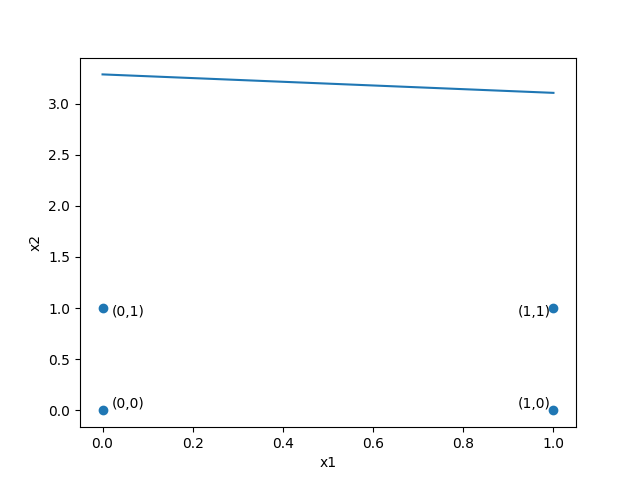
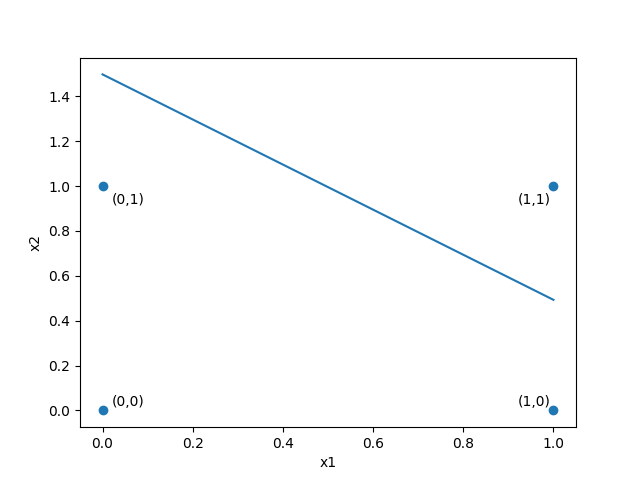
new

diff --git a/4semestr/iap/lab1/One.java b/4semestr/iap/lab1/One.java
@@ -5,115 +5,196 @@ class One {
         Create r=new Create();
         r.run();
     }
-}
+}  
 class Create{
     public void run(){
-        Scanner in = new Scanner(System.in);
-        double S;
+        try{
+            Scanner in = new Scanner(System.in);
+            double S,V;
 
-        System.out.print("endter a and b for eleps a->");
-        double ae=in.nextDouble();
-        System.out.print("b->");
-        double be=in.nextDouble();
+            System.out.print("endter a and b for eleps a->");
+            double ae=in.nextDouble();
+            System.out.print("b->");
+            double be=in.nextDouble();
+            System.out.print("hight for eleps->");
+            double he=in.nextDouble();
 
-        System.out.print("enter radius for circle(r)->");
-        double r=in.nextDouble();
+            System.out.print("enter radius for circle(r)->");
+            double r=in.nextDouble();
+            System.out.print("hight for circle->");
+            double hc=in.nextDouble();
 
-        System.out.print("enter a and b sides of the rectangle a->");
-        double a=in.nextDouble();
-        System.out.print("b->");
-        double b=in.nextDouble();
+            System.out.print("enter a and b sides of the rectangle a->");
+            double a=in.nextDouble();
+            System.out.print("b->");
+            double b=in.nextDouble();
+            System.out.print("hight for rectangle->");
+            double hr=in.nextDouble();
 
-        System.out.print("enter a sides of the square a->");
-        double as=in.nextDouble();
+            System.out.print("enter a sides of the square a->");
+            double as=in.nextDouble();
+            System.out.print("hight for square->");
+            double hs=in.nextDouble();
 
-        System.out.print("endter base of triangle(base)->");
-        double at=in.nextDouble();
-        System.out.print("enter height for triangle(h)->");
-        double h=in.nextDouble();
+            System.out.print("endter base of triangle(base)->");
+            double at=in.nextDouble();
+            System.out.print("enter height for triangle(h)->");
+            double h=in.nextDouble();
+            System.out.print("hight for triangle->");
+            double ht=in.nextDouble();
 
-        Eleps e= new Eleps();
-        Circle c= new Circle();
-        Rectangle rec= new Rectangle();
-        Square s= new Square();
-        Triangle t= new Triangle();
+            Shape e= new Eleps(ae,be);
+            Shape c= new Circle(r);
+            Shape rec= new Rectangle(a,b);
+            Shape s= new Square(as);
+            Shape t= new Triangle(at,h);
+
+            Cylinder ce = new Cylinder(e,he);
+            Cylinder cc = new Cylinder(c,hc);
+            Cylinder cr = new Cylinder(rec,hr);
+            Cylinder cs = new Cylinder(s,hs);
+            Cylinder ct = new Cylinder(t,ht);
 
 
-        e.create_eleps(ae, be);
-        c.create_circle(r);
-        rec.create_rectangle(a, b);
-        s.create_square(as);
-        t.create_triangle(at, h);
+            S=e.area();
+            System.out.printf("площадь эллипса= %s\n",S);
+            V=ce.volume();
+            System.out.printf("обьём эллипса= %s\n\n",V);
 
-        S=e.area();
-        System.out.printf("площадь эллипса= %s\n",S);
+            S=c.area();
+            System.out.printf("площадь круга= %s\n",S);
+            V=cc.volume();
+            System.out.printf("обьём круга= %s\n\n",V);
 
-        S=c.area();
-        System.out.printf("площадь круга= %s\n",S);
+            S=rec.area();
+            System.out.printf("площадь прямоугольника= %s\n",S);
+            V=cr.volume();
+            System.out.printf("обьём прямоугольника= %s\n\n",V);
 
-        S=rec.area();
-        System.out.printf("площадь прямоугольника= %s\n",S);
+            S=s.area();
+            System.out.printf("площадь квадрата= %s\n",S);
+            V=cs.volume();
+            System.out.printf("обьём квадрата= %s\n\n",V);
 
-        S=s.area();
-        System.out.printf("площадь квадрата= %s\n",S);
+            S=t.area();
+            System.out.printf("площадь треугольника= %s\n",S);
+            V=ct.volume();
+            System.out.printf("обьём треугольника= %s\n\n",V);
 
-        S=t.area();
-        System.out.printf("площадь треугольника= %s\n",S);
-
-        in.close();
+            in.close();
+        }catch(IllegalArgumentException exc)
+        {
+            System.out.println(exc.getMessage());
+        }
     }
 }
-class Shape{
+interface Shape{
     final double PI=3.14159265359;
+    double area();
+    void show();
 }
-class Eleps extends Shape{
-    double A;
-    double B;
-    public void create_eleps(double ae, double be){
-        A=ae;
-        B=be;
+
+class Cylinder{
+    double S;
+    double H;
+    Cylinder(Shape a,double h){
+        if (h>0){
+            this.S=a.area();
+            this.H=h;
+        }
+        else{
+            throw new IllegalArgumentException("error Cylinder");
+        }
+    }
+    double volume(){
+        return(S*H);
+    }
+}
+
+class Eleps implements Shape{
+    protected double A;
+    protected double B;
+    public Eleps(){}
+    public Eleps(double ae, double be){
+        if ((ae>0) && (be>0)){
+            this.A=ae;
+            this.B=be;
+        }
+        else{
+            throw new IllegalArgumentException("error Eleps");
+        }
     }
     public double area(){
         return(A*B*PI);
     }
+    public void show(){
+
+    }
 }
 class Circle extends Eleps{
-    double R;
-    public void create_circle(double r){
-        R=r;
+    public Circle(double r){
+        if(r>0){
+            this.A=r;
+            this.B=r;
+        }
+        else{
+            throw new IllegalArgumentException("error Circle");
+        }
     }
-    public double area(){
-        return(R*R*PI);
+    public void show(){
+
     }
 }
-class Triangle extends Shape{
+class Triangle implements Shape{
     double A;
     double H;
-    public void create_triangle(double a, double h){
-        A=a;
-        H=h;
+    public Triangle(double a, double h){
+        if ((a>0)&&(h>0)){
+            this.A=a;
+            this.H=h;
+        }
+        else{
+            throw new IllegalArgumentException("error Triangle");
+        }
     }
     public double area(){
         return(0.5*A*H);
     }
+    public void show(){
+
+    }
 }
-class Rectangle extends Shape{
+class Rectangle implements Shape{
     double A;
     double B;
-    public void create_rectangle(double a, double b){
-        A=a;
-        B=b;
+    public Rectangle(){}
+    public Rectangle(double a, double b){
+        if ((a>0)&&(b>0)){
+            this.A=a;
+            this.B=b;
+        }
+        else{
+            throw new IllegalArgumentException("error Rectangle");
+        }
     }
     public double area(){
         return(A*B);
     }
+    public void show(){
+
+    }
 }
 class Square extends Rectangle{
-    double A;
-    public void create_square(double a){
-        A=a;
+    public Square(double as){
+        if (as>0){
+            this.A=as;
+            this.B=as;
+        }
+        else{
+            throw new IllegalArgumentException("error Sqare");
+        }
     }
-    public double area(){
-        return(A*A);
+    public void show(){
+
     }
 }

diff --git a/4semestr/neironki/lab1.py b/4semestr/neironki/lab1.py
@@ -2,23 +2,7 @@ from cmath import*
 import matplotlib.pyplot as plt
 import numpy as np
 
-def drawGraph():
-    plt. scatter([x1[i] for i in range(4)],[x2[i] for i in range(4)])
-    plt.xlabel("x1")
-    plt.ylabel("x2")
-    for i in range(4):
-        x,y = x1[i], x2[i]
-        kx = -1 if x == 0 else 4
-        ky = -1 if y == 0 else 4
-        plt.text(x - 0.02 * kx, y - 0.02 * ky, f"({x},{y})")
-    xx = [x1[i] for i in range(4)]
-    yy=[(-(w[1]/w[2])*x1[i]+(0.5-w[0]*x0[i])/w[2]) for i in range(4)]
-    print(xx)
-    print(yy)
-    plt.plot(xx, yy)
-    plt.savefig("and_graph.png")
-
-ly=0.0001
+ly=0.01
 w=[0.1,-0.05,0.05]
 x0=[1,1,1,1]
 x1=[0,0,1,1]
@@ -44,5 +28,22 @@ for epoh in range(1000):
 for sample in range(4):
     y=float(w[0])*float(x0[sample])+float(w[1])*float(x1[sample])+float(w[2])*float(x2[sample])
     print(c[sample],"   ",y)
+def graf():
+    plt. scatter([x1[i] for i in range(4)],[x2[i] for i in range(4)])
+    plt.xlabel("x1")
+    plt.ylabel("x2")
+    for i in range(4):
+        x,y = x1[i], x2[i]
+        kx = -1 if x == 0 else 4
+        ky = -1 if y == 0 else 4
+        plt.text(x - 0.02 * kx, y - 0.02 * ky, f"({x},{y})")
+    xx = [x1[i] for i in range(4)]
+    yy=[(-(w[1]/w[2])*x1[i]+(0.5-w[0]*x0[i])/w[2]) for i in range(4)]
+    print(xx)
+    print(yy)
+    plt.plot(xx, yy)
 
-drawGraph()
+    plt.savefig("and_graph.png")
+
+
+graf()
